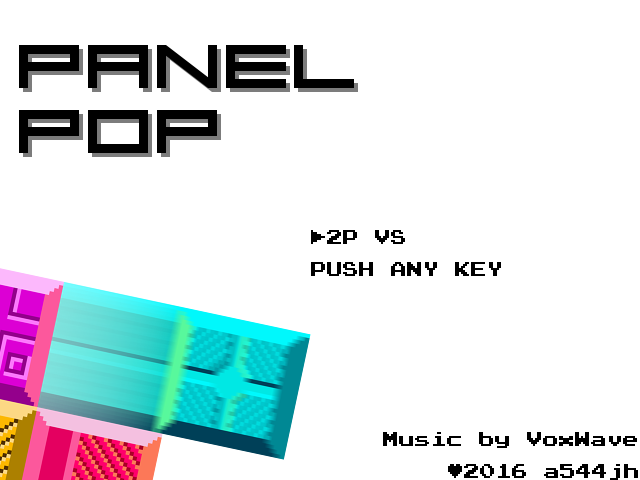
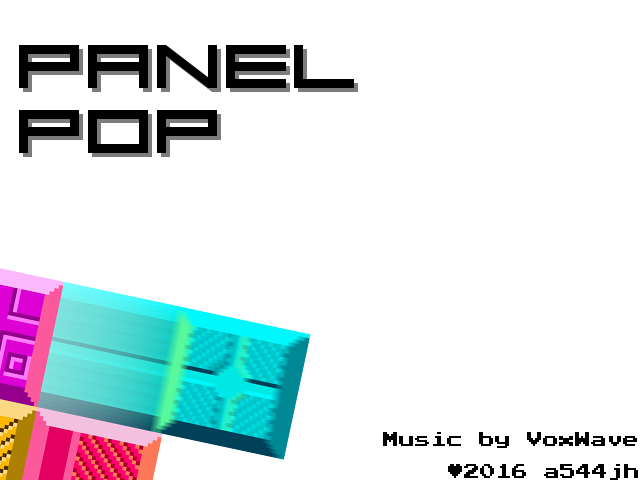
added menu to title screen

Changed region(s): [[0.4688, 0.4688, 0.7812, 0.5938]]

diff --git a/Menus/MainMenu.cpp b/Menus/MainMenu.cpp
@@ -1,0 +1,48 @@
+/*
+ * MainMenu.cpp
+ *
+ *  Created on: 22.2.2016
+ *      Author: axelw
+ */
+
+#include "MainMenu.h"
+
+#include <SDL2/SDL_pixels.h>
+#include <SDL2/SDL_timer.h>
+#include <string>
+
+#include "../SDLContext.h"
+#include "../States/OptionsMenuState.h"
+#include "../States/StateManager.h"
+#include "E:/MinGWDistro/MinGW/include/c++/5.3.0/vector"
+#include "MenuItem.h"
+
+MainMenu::MainMenu() {
+	addItem(
+			MenuItem("2P VS",
+					[&]() {StateManager::getInstance().startGame();}));
+	addItem(
+			MenuItem("Options",
+					[&]() {StateManager::getInstance().switchToState(new OptionsMenuState);}));
+}
+
+MainMenu::~MainMenu() {
+}
+
+void MainMenu::render() const {
+
+	int x = 311;
+	int y = 230;
+
+	for (unsigned i = 0; i < _items.size(); ++i) {
+		y += 18;
+		std::string text = _items.at(i).getName();
+		if (_selection == i && (SDL_GetTicks() - _time) % 1000 < 500) {
+			text = "\u25b6" + text;
+		} else {
+			text = " " + text;
+		}
+		_SDLContext.renderText(text, { 0, 0, 0 }, _SDLContext._fontPs, x, y);
+
+	}
+}

diff --git a/Menus/KeyConfigMenu.cpp b/Menus/KeyConfigMenu.cpp
@@ -61,7 +61,6 @@ KeyConfigMenu::KeyConfigMenu(OptionsMenuState& state, int player) :
 }
 
 KeyConfigMenu::~KeyConfigMenu() {
-	// TODO Auto-generated destructor stub
 }
 
 void KeyConfigMenu::setActiveKey(int scancode) {
@@ -82,18 +81,17 @@ void KeyConfigMenu::render() const {
 		} else {
 			text = " " + text;
 		}
-		_SDLContext.renderText(text, { 255, 255, 255 }, _SDLContext._fontPs, x,
-				y);
+		_SDLContext.renderText(text, { 0, 0, 0 }, _SDLContext._fontPs, x, y);
 
 		const char* name = SDL_GetScancodeName(
 				(SDL_Scancode) _items.at(i).getValue());
 
-		_SDLContext.renderText(name, { 255, 255, 255 }, _SDLContext._fontPs,
-				x + 350, y);
+		_SDLContext.renderText(name, { 0, 0, 0 }, _SDLContext._fontPs, x + 350,
+				y);
 	}
 
 	if (_waitingForKey) {
-		_SDLContext.renderText("--press key--", { 255, 255, 255 },
+		_SDLContext.renderText("--press key--", { 0, 0, 0 },
 				_SDLContext._fontPs, 0, 300);
 	}
 

diff --git a/Rendering/TitleScreenRenderer.cpp b/Rendering/TitleScreenRenderer.cpp
@@ -15,8 +15,10 @@
 
 #include "../main.h"
 #include "../SDLContext.h"
+#include "../States/TitleScreen.h"
 
-TitleScreenRenderer::TitleScreenRenderer() {
+TitleScreenRenderer::TitleScreenRenderer(TitleScreen& ts) :
+				_titleScreen(ts) {
 	_texture = SDL_CreateTexture(_SDLRenderer, SDL_PIXELFORMAT_RGBA8888,
 			SDL_TEXTUREACCESS_TARGET, 640, 480);
 	_titleImg = _SDLContext.makeTextureFromImage("assets/title.png");
@@ -41,6 +43,8 @@ SDL_Texture* TitleScreenRenderer::render() {
 		SDL_Rect box = { 311, 262, 190, 14 };
 		SDL_RenderFillRect(_SDLRenderer, &box);
 	}
+
+	_titleScreen.getMenu().render();
 
 //	SDL_Color color = {0,0,0};
 //	SDL_Texture* testfont = _SDLContext.makeTextureFromFont("PANEL POP",color,_SDLContext._squareFont);

diff --git a/States/TitleScreen.cpp b/States/TitleScreen.cpp
@@ -10,7 +10,7 @@
 #include "../InputManager.h"
 #include "StateManager.h"
 
-TitleScreen::TitleScreen() : _tr(){
+TitleScreen::TitleScreen() : _tr(*this){
 }
 
 TitleScreen::~TitleScreen() {
@@ -21,8 +21,9 @@ SDL_Texture* TitleScreen::render() {
 }
 
 void TitleScreen::tick(){
-	InputManager& input = InputManager::getInstance();
-	if(input.anyKeyDown()){
-		StateManager::getInstance().startGame();
-	}
+	_menu.handleInput();
+}
+
+const MainMenu& TitleScreen::getMenu() const {
+	return _menu;
 }

diff --git a/Menus/OptionsMenu.cpp b/Menus/OptionsMenu.cpp
@@ -1,0 +1,19 @@
+/*
+ * OptionsMenu.cpp
+ *
+ *  Created on: 22.2.2016
+ *      Author: axelw
+ */
+
+#include "OptionsMenu.h"
+
+OptionsMenu::OptionsMenu() {
+	addItem(MenuItem("Fullscreen", [&](){},0,0));
+	addItem(MenuItem("Music volume", [&](){},0,0));
+	addItem(MenuItem("SFX volume", [&](){},0,0));
+	addItem(MenuItem("Configure keys", [&](){},0,0));
+}
+
+OptionsMenu::~OptionsMenu() {
+}
+

diff --git a/States/TitleScreen.h b/States/TitleScreen.h
@@ -8,6 +8,7 @@
 #ifndef STATES_TITLESCREEN_H_
 #define STATES_TITLESCREEN_H_
 
+#include "../Menus/MainMenu.h"
 #include "../Rendering/TitleScreenRenderer.h"
 #include "State.h"
 
@@ -17,8 +18,11 @@ public:
 	virtual ~TitleScreen();
 	void tick();
 	SDL_Texture* render();
+	const MainMenu& getMenu() const;
+
 private:
 	TitleScreenRenderer _tr;
+	MainMenu _menu;
 };
 
 

diff --git a/Rendering/TitleScreenRenderer.h b/Rendering/TitleScreenRenderer.h
@@ -10,13 +10,16 @@
 
 #include "Renderer.h"
 
+class TitleScreen;
+
 class TitleScreenRenderer : public Renderer {
 public:
-	TitleScreenRenderer();
+	TitleScreenRenderer(TitleScreen&);
 	virtual ~TitleScreenRenderer();
 	void tick();
 	SDL_Texture* render();
 private:
+	TitleScreen& _titleScreen;
 	SDL_Texture* _titleImg;
 	SDL_Texture* _versionText;
 };

diff --git a/States/StateManager.cpp b/States/StateManager.cpp
@@ -37,7 +37,7 @@ StateManager::StateManager() :
 				_showFps(false) {
 	_p1keys = ConfigHandler::getInstance().getKeyConfig(1);
 	_p2keys = ConfigHandler::getInstance().getKeyConfig(2);
-	_currentState = new OptionsMenuState();
+	_currentState = new TitleScreen();
 }
 
 StateManager& StateManager::getInstance() {

diff --git a/Menus/MainMenu.h b/Menus/MainMenu.h
@@ -1,0 +1,20 @@
+/*
+ * MainMenu.h
+ *
+ *  Created on: 22.2.2016
+ *      Author: axelw
+ */
+
+#ifndef MENUS_MAINMENU_H_
+#define MENUS_MAINMENU_H_
+
+#include "Menu.h"
+
+class MainMenu: public Menu {
+public:
+	MainMenu();
+	virtual ~MainMenu();
+	void render() const;
+};
+
+#endif /* MENUS_MAINMENU_H_ */

diff --git a/Menus/OptionsMenu.h b/Menus/OptionsMenu.h
@@ -1,0 +1,19 @@
+/*
+ * OptionsMenu.h
+ *
+ *  Created on: 22.2.2016
+ *      Author: axelw
+ */
+
+#ifndef MENUS_OPTIONSMENU_H_
+#define MENUS_OPTIONSMENU_H_
+
+#include "Menu.h"
+
+class OptionsMenu: public Menu {
+public:
+	OptionsMenu();
+	virtual ~OptionsMenu();
+};
+
+#endif /* MENUS_OPTIONSMENU_H_ */
